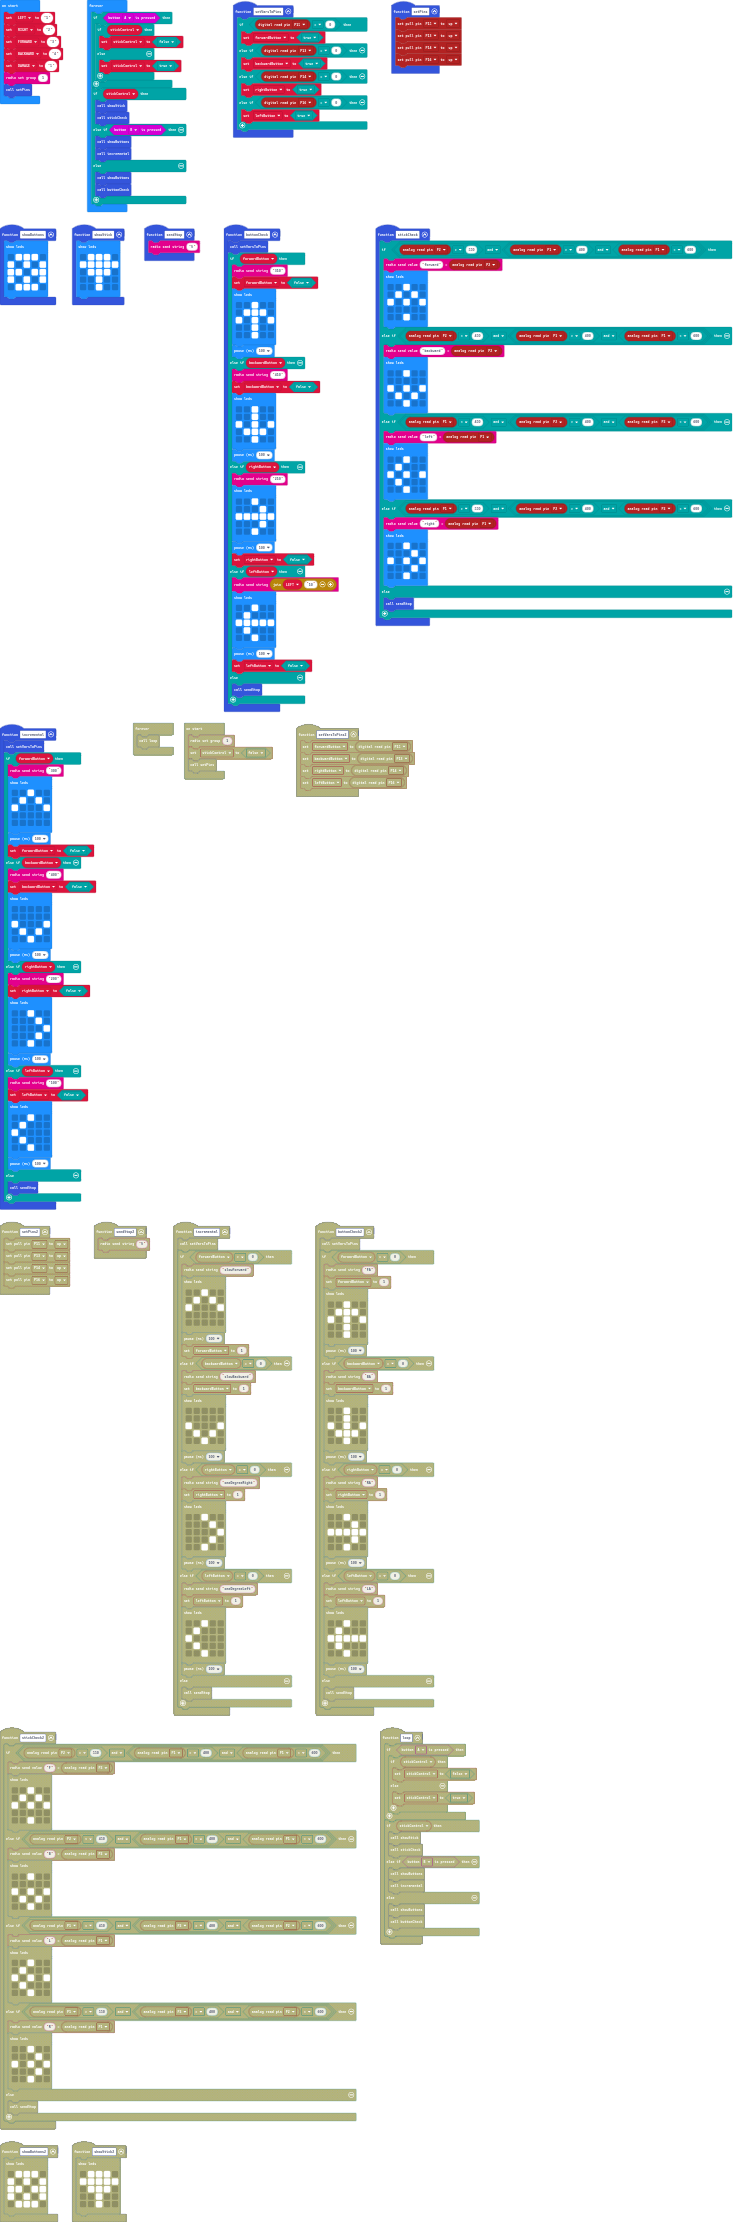
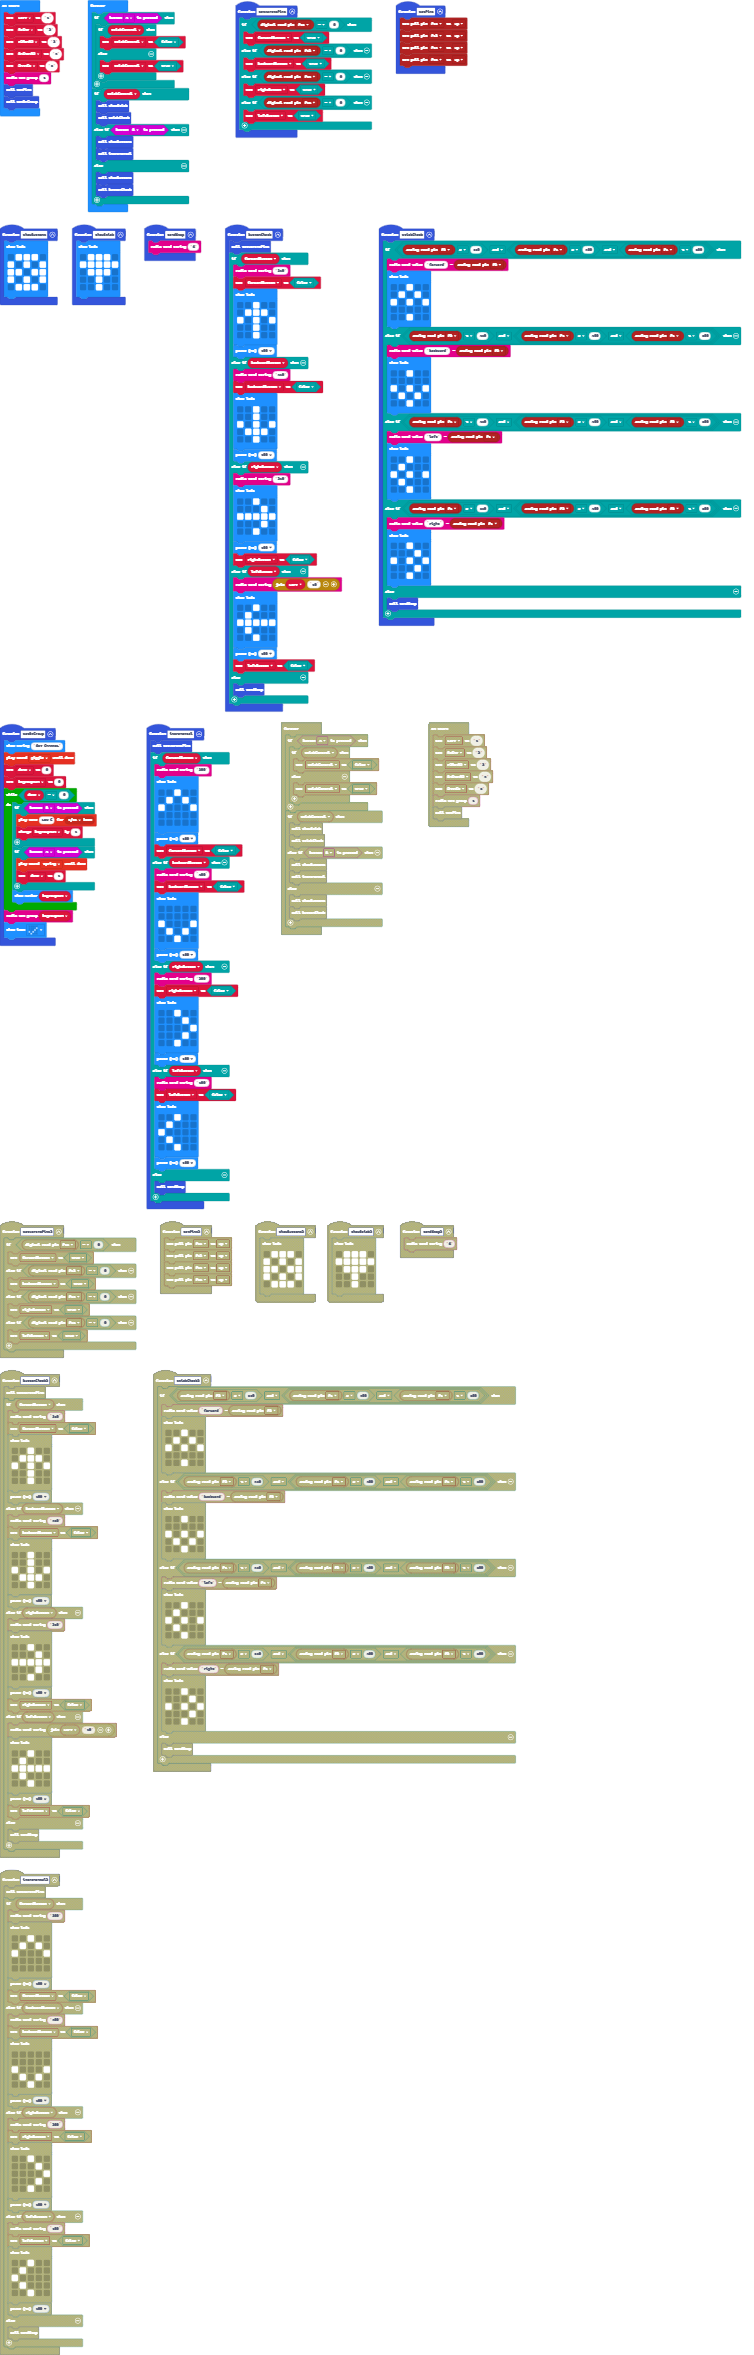
set BT Channel at startup

diff --git a/main.ts b/main.ts
@@ -7,6 +7,25 @@ function showStick () {
         . . # . .
         `)
 }
+function setBTGroup () {
+    basic.showString("SET CHANNEL")
+    soundExpression.giggle.playUntilDone()
+    done = 0
+    btgroupnum = 0
+    while (done == 0) {
+        if (input.buttonIsPressed(Button.B)) {
+            music.playTone(131, music.beat(BeatFraction.Sixteenth))
+            btgroupnum += 1
+        }
+        if (input.buttonIsPressed(Button.A)) {
+            soundExpression.spring.playUntilDone()
+            done = 1
+        }
+        basic.showNumber(btgroupnum)
+    }
+    radio.setGroup(btgroupnum)
+    basic.showIcon(IconNames.Yes)
+}
 function stickCheck () {
     if (pins.analogReadPin(AnalogPin.P2) > 550 && (pins.analogReadPin(AnalogPin.P1) > 400 && pins.analogReadPin(AnalogPin.P1) < 600)) {
         radio.sendValue("forward", pins.analogReadPin(AnalogPin.P2))
@@ -182,6 +201,8 @@ let leftButton = false
 let rightButton = false
 let backwardButton = false
 let forwardButton = false
+let btgroupnum = 0
+let done = 0
 let LEFT = ""
 LEFT = "1"
 let RIGHT = "2"
@@ -190,6 +211,7 @@ let BACKWARD = "4"
 let DAMAGE = "5"
 radio.setGroup(1)
 setPins()
+setBTGroup()
 basic.forever(function () {
     if (input.buttonIsPressed(Button.A)) {
         if (stickControl) {

diff --git a/main.py b/main.py
@@ -1,16 +1,117 @@
+def setBTGroup():
+    global done, btgroupnum
+    basic.show_string("SET CHANNEL")
+    soundExpression.giggle.play_until_done()
+    done = 0
+    btgroupnum = 0
+    while done == 0:
+        if input.button_is_pressed(Button.B):
+            music.play_tone(131, music.beat(BeatFraction.SIXTEENTH))
+            btgroupnum += 1
+        if input.button_is_pressed(Button.A):
+            soundExpression.spring.play_until_done()
+            done = 1
+        basic.show_number(btgroupnum)
+    radio.set_group(btgroupnum)
+    basic.show_icon(IconNames.YES)
 def showStick():
     basic.show_leds("""
         . # # # .
-        # # # # #
-        . # # # .
-        . . # . .
-        . . # . .
+                # # # # #
+                . # # # .
+                . . # . .
+                . . # . .
     """)
-def setPins():
-    pins.set_pull(DigitalPin.P15, PinPullMode.PULL_UP)
-    pins.set_pull(DigitalPin.P13, PinPullMode.PULL_UP)
-    pins.set_pull(DigitalPin.P14, PinPullMode.PULL_UP)
-    pins.set_pull(DigitalPin.P16, PinPullMode.PULL_UP)
+def stickCheck():
+    if pins.analog_read_pin(AnalogPin.P2) > 550 and (pins.analog_read_pin(AnalogPin.P1) > 400 and pins.analog_read_pin(AnalogPin.P1) < 600):
+        radio.send_value("forward", pins.analog_read_pin(AnalogPin.P2))
+        basic.show_leds("""
+            . . # . .
+                        . # . # .
+                        # . # . #
+                        . . . . .
+                        . . # . .
+        """)
+    elif pins.analog_read_pin(AnalogPin.P2) < 450 and (pins.analog_read_pin(AnalogPin.P1) > 400 and pins.analog_read_pin(AnalogPin.P1) < 600):
+        radio.send_value("backward", pins.analog_read_pin(AnalogPin.P2))
+        basic.show_leds("""
+            . . # . .
+                        . . . . .
+                        # . # . #
+                        . # . # .
+                        . . # . .
+        """)
+    elif pins.analog_read_pin(AnalogPin.P1) < 450 and (pins.analog_read_pin(AnalogPin.P2) > 400 and pins.analog_read_pin(AnalogPin.P2) < 600):
+        radio.send_value("left", pins.analog_read_pin(AnalogPin.P1))
+        basic.show_leds("""
+            . . # . .
+                        . # . . .
+                        # . # . #
+                        . # . . .
+                        . . # . .
+        """)
+    elif pins.analog_read_pin(AnalogPin.P1) > 550 and (pins.analog_read_pin(AnalogPin.P2) > 400 and pins.analog_read_pin(AnalogPin.P2) < 600):
+        radio.send_value("right", pins.analog_read_pin(AnalogPin.P1))
+        basic.show_leds("""
+            . . # . .
+                        . . . # .
+                        # . # . #
+                        . . . # .
+                        . . # . .
+        """)
+    else:
+        sendStop()
+def incremental():
+    global forwardButton, backwardButton, rightButton, leftButton
+    setVarsToPins()
+    if forwardButton:
+        radio.send_string("300")
+        basic.show_leds("""
+            . . # . .
+                        . # . # .
+                        # . . . #
+                        . . . . .
+                        . . . . .
+        """)
+        basic.pause(100)
+        forwardButton = False
+    elif backwardButton:
+        radio.send_string("400")
+        backwardButton = False
+        basic.show_leds("""
+            . . . . .
+                        . . . . .
+                        # . . . #
+                        . # . # .
+                        . . # . .
+        """)
+        basic.pause(100)
+    elif rightButton:
+        radio.send_string("200")
+        rightButton = False
+        basic.show_leds("""
+            . . # . .
+                        . . . # .
+                        . . . . #
+                        . . . # .
+                        . . # . .
+        """)
+        basic.pause(100)
+    elif leftButton:
+        radio.send_string("100")
+        leftButton = False
+        basic.show_leds("""
+            . . # . .
+                        . # . . .
+                        # . . . .
+                        . # . . .
+                        . . # . .
+        """)
+        basic.pause(100)
+    else:
+        sendStop()
+def sendStop():
+    radio.send_string("S")
 def setVarsToPins():
     global forwardButton, backwardButton, rightButton, leftButton
     if pins.digital_read_pin(DigitalPin.P15) == 0:
@@ -21,106 +122,19 @@ def setVarsToPins():
         rightButton = True
     elif pins.digital_read_pin(DigitalPin.P16) == 0:
         leftButton = True
-def incremental():
-    global forwardButton, backwardButton, rightButton, leftButton
-    setVarsToPins()
-    if forwardButton:
-        radio.send_string("300")
-        basic.show_leds("""
-            . . # . .
-            . # . # .
-            # . . . #
-            . . . . .
-            . . . . .
-        """)
-        basic.pause(100)
-        forwardButton = False
-    elif backwardButton:
-        radio.send_string("400")
-        backwardButton = False
-        basic.show_leds("""
-            . . . . .
-            . . . . .
-            # . . . #
-            . # . # .
-            . . # . .
-        """)
-        basic.pause(100)
-    elif rightButton:
-        radio.send_string("200")
-        rightButton = False
-        basic.show_leds("""
-            . . # . .
-            . . . # .
-            . . . . #
-            . . . # .
-            . . # . .
-        """)
-        basic.pause(100)
-    elif leftButton:
-        radio.send_string("100")
-        leftButton = False
-        basic.show_leds("""
-            . . # . .
-            . # . . .
-            # . . . .
-            . # . . .
-            . . # . .
-        """)
-        basic.pause(100)
-    else:
-        sendStop()
-def stickCheck():
-    if pins.analog_read_pin(AnalogPin.P2) > 550 and (pins.analog_read_pin(AnalogPin.P1) > 400 and pins.analog_read_pin(AnalogPin.P1) < 600):
-        radio.send_value("forward", pins.analog_read_pin(AnalogPin.P2))
-        basic.show_leds("""
-            . . # . .
-            . # . # .
-            # . # . #
-            . . . . .
-            . . # . .
-        """)
-    elif pins.analog_read_pin(AnalogPin.P2) < 450 and (pins.analog_read_pin(AnalogPin.P1) > 400 and pins.analog_read_pin(AnalogPin.P1) < 600):
-        radio.send_value("backward", pins.analog_read_pin(AnalogPin.P2))
-        basic.show_leds("""
-            . . # . .
-            . . . . .
-            # . # . #
-            . # . # .
-            . . # . .
-        """)
-    elif pins.analog_read_pin(AnalogPin.P1) < 450 and (pins.analog_read_pin(AnalogPin.P2) > 400 and pins.analog_read_pin(AnalogPin.P2) < 600):
-        radio.send_value("left", pins.analog_read_pin(AnalogPin.P1))
-        basic.show_leds("""
-            . . # . .
-            . # . . .
-            # . # . #
-            . # . . .
-            . . # . .
-        """)
-    elif pins.analog_read_pin(AnalogPin.P1) > 550 and (pins.analog_read_pin(AnalogPin.P2) > 400 and pins.analog_read_pin(AnalogPin.P2) < 600):
-        radio.send_value("right", pins.analog_read_pin(AnalogPin.P1))
-        basic.show_leds("""
-            . . # . .
-            . . . # .
-            # . # . #
-            . . . # .
-            . . # . .
-        """)
-    else:
-        sendStop()
-def sendStop():
-    radio.send_string("S")
-
 def showButtons():
     basic.show_leds("""
         . # # # .
-        # . # . #
-        # # . # #
-        # . # . #
-        . # # # .
+                # . # . #
+                # # . # #
+                # . # . #
+                . # # # .
     """)
-
+def setPins():
+    pins.set_pull(DigitalPin.P15, PinPullMode.PULL_UP)
+    pins.set_pull(DigitalPin.P13, PinPullMode.PULL_UP)
+    pins.set_pull(DigitalPin.P14, PinPullMode.PULL_UP)
+    pins.set_pull(DigitalPin.P16, PinPullMode.PULL_UP)
 def buttonCheck():
     global forwardButton, backwardButton, rightButton, leftButton
     setVarsToPins()
@@ -129,10 +143,10 @@ def buttonCheck():
         forwardButton = False
         basic.show_leds("""
             . . # . .
-            . # # # .
-            # . # . #
-            . . # . .
-            . . # . .
+                        . # # # .
+                        # . # . #
+                        . . # . .
+                        . . # . .
         """)
         basic.pause(100)
     elif backwardButton:
@@ -140,43 +154,44 @@ def buttonCheck():
         backwardButton = False
         basic.show_leds("""
             . . # . .
-            . . # . .
-            # . # . #
-            . # # # .
-            . . # . .
+                        . . # . .
+                        # . # . #
+                        . # # # .
+                        . . # . .
         """)
         basic.pause(100)
     elif rightButton:
         radio.send_string("210")
         basic.show_leds("""
             . . # . .
-            . . . # .
-            # # # # #
-            . . . # .
-            . . # . .
+                        . . . # .
+                        # # # # #
+                        . . . # .
+                        . . # . .
         """)
         basic.pause(100)
         rightButton = False
     elif leftButton:
-        radio.send_string(LEFT+"10")
-        
+        radio.send_string("" + LEFT + "10")
         basic.show_leds("""
             . . # . .
-            . # . . .
-            # # # # #
-            . # . . .
-            . . # . .
+                        . # . . .
+                        # # # # #
+                        . # . . .
+                        . . # . .
         """)
         basic.pause(100)
         leftButton = False
     else:
         sendStop()
-
+btgroupnum = 0
+done = 0
+stickControl = False
 leftButton = False
 rightButton = False
 backwardButton = False
 forwardButton = False
-stickControl = False
+LEFT = ""
 LEFT = "1"
 RIGHT = "2"
 FORWARD = "3"
